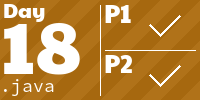
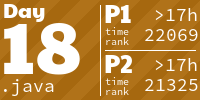
2024 day 18 complete

diff --git a/README.md b/README.md
@@ -4,7 +4,7 @@
 
 <!-- AOC TILES BEGIN -->
 <h1 align="center">
-  2024 - 34 ⭐ - Java
+  2024 - 36 ⭐ - Java
 </h1>
 <a href="src/main/java/fr/home/mikedev/aoc2024/Main01.java">
   <img src=".aoc_tiles/tiles/2024/01.png" width="161px">
@@ -56,6 +56,9 @@
 </a>
 <a href="src/main/java/fr/home/mikedev/aoc2024/Main17.java">
   <img src=".aoc_tiles/tiles/2024/17.png" width="161px">
+</a>
+<a href="src/main/java/fr/home/mikedev/aoc2024/Main18.java">
+  <img src=".aoc_tiles/tiles/2024/18.png" width="161px">
 </a>
 <h1 align="center">
   2023 - 6 ⭐ - Java
